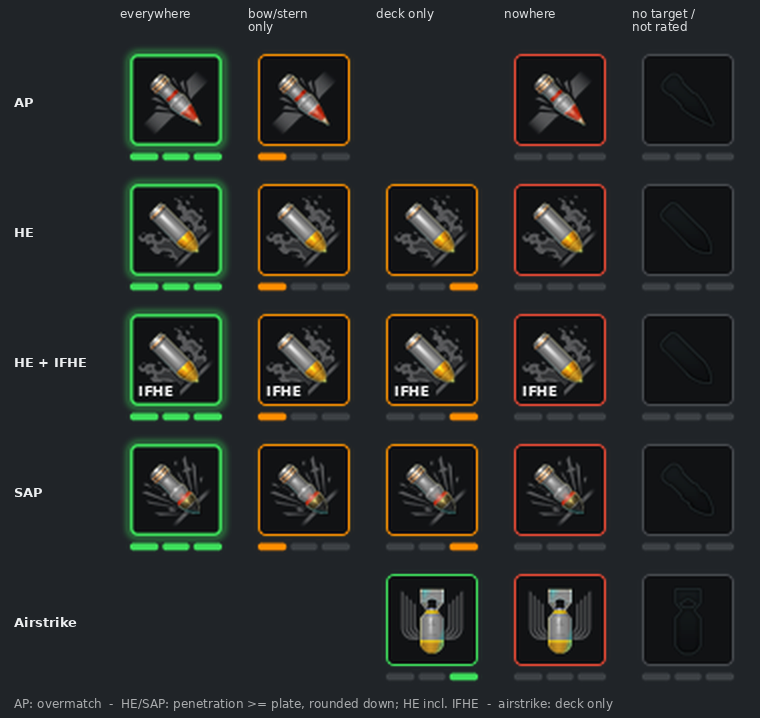
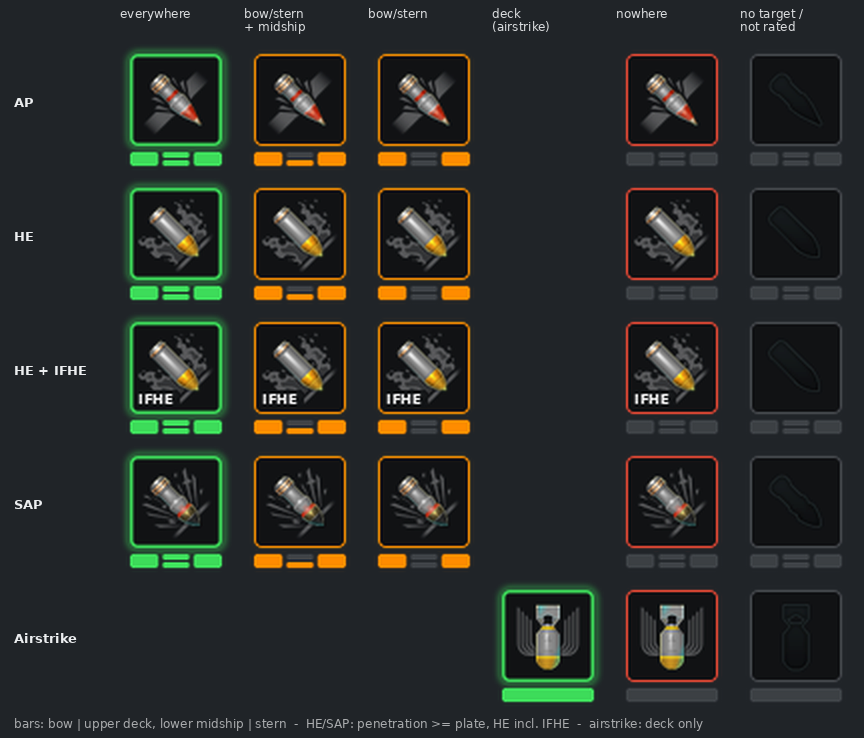
README, Bilder und CHANGELOG fuer 0.5.1
Claude-Session: https://claude.ai/code/session_01Cjegtnu2M8VwjBFAmFpPtC

diff --git a/tools/make_readme_images.py b/tools/make_readme_images.py
@@ -41,11 +41,11 @@ def _icon(name):
 
 # Munitionsleisten-Design (seit 0.5.0): Teile aus make_ammobar_icons, Symbole aus ammobar/game/ (Kopien aus
 # den Spieldateien, Wargaming). Masse wie PENLIGHT_SETTINGS (ammoBarSlot 46, ammoBarIcon 40, SegGap 3,
-# SegHeight 5, Gap 6, CapWidth 72, CapHeight 22, CapIcon 22, capsuleGap 4, TextIcon 17, glowPad 5,
+# SegHeight 7, Gap 6, CapWidth 72, CapHeight 22, CapIcon 22, capsuleGap 4, TextIcon 17, glowPad 5,
 # glowRestAlpha 0.45 = Ruhezustand nach dem Pulsieren).
 AMMOBAR = os.path.join(ICONS, 'ammobar')
 GAME = os.path.join(AMMOBAR, 'game')
-SLOT, SLOT_ICON, SEG_GAP, SEG_H, GAP = 46, 40, 3, 5, 6
+SLOT, SLOT_ICON, SEG_GAP, SEG_H, GAP = 46, 40, 3, 7, 6
 CAP_W, CAP_H, CAP_ICON, CAP_GAP, TEXT_ICON, GLOW_PAD, GLOW_REST = 72, 22, 22, 4, 17, 5, 0.45
 # Nur Text: Unterlage 0xD90E1012, Textfarben wie PENLIGHT_TEXT_CT bzw. _CB
 TEXT_PLATE = (14, 16, 18, 217)
@@ -86,12 +86,14 @@ def _state(kind, bits, rated=True, airstrike=False):
 
 def _frame_names(kind, bits, pal, rated, airstrike=False):
     st = _state(kind, bits, rated, airstrike)
-    ext = rated and bits == '111'
+    ext = rated and (bits[2] == '1' if airstrike else bits == '111')
+    air = 'air_' if airstrike else ''
     if not rated:
-        return 'slot_grey', 'seg_grey', 'cap_grey', 'stripe_grey', None, None, st
+        return 'slot_grey', 'seg_%sgrey' % air, 'cap_%sgrey' % air, 'stripe_grey', None, None, st
     glow = ('green' if kind == 'atk' else 'red') if ext else None
-    return ('slot_%s%s%s' % ('ext_' if ext else '', pal, st), 'seg_%s%s_%s' % (pal, st, bits),
-            'cap_%s%s_%s' % (pal, st, bits), 'stripe_%s%s' % (pal, st),
+    suffix = '' if airstrike else '_' + bits
+    return ('slot_%s%s%s' % ('ext_' if ext else '', pal, st), 'seg_%s%s%s%s' % (air, pal, st, suffix),
+            'cap_%s%s%s%s' % (air, pal, st, suffix), 'stripe_%s%s' % (pal, st),
             'glow_slot_%s%s' % (pal, glow) if glow else None, 'glow_cap_%s%s' % (pal, glow) if glow else None, st)
 
 
@@ -173,7 +175,7 @@ def ampel():
                          ab_slot('def', SHIELD, bits, pal, rated), gap=GAP - 2 * GLOW_PAD)
             im.alpha_composite(_zoom(pair), (x0 + i * cw, y))
     d.text((14, im.height - 22), 'left: my shell vs target  -  right (shield): target\'s AP vs me  -  '
-           'bars: bow/stern, midship, deck', font=fs, fill=(170, 172, 174))
+           'bars: bow | upper deck, lower midship | stern', font=fs, fill=(170, 172, 174))
     im.save(os.path.join(OUT, 'ampel.png'))
 
 
@@ -181,12 +183,12 @@ def ammo():
     """Zeilen je Munition, Spalten je Zustand; AP kennt kein 'nur Deck', der Luftschlag nur das Deck."""
     f = ImageFont.truetype(FONT, 13)
     fs = ImageFont.truetype(FONT_REGULAR, 12)
-    columns = [('everywhere', '111'), ('bow/stern\nonly', '100'), ('deck only', '001'), ('nowhere', '000'),
-               ('no target /\nnot rated', None)]
-    rows = [('AP', 'ap', ('111', '100', None, '000')), ('HE', 'he', ('111', '100', '001', '000')),
-            ('HE + IFHE', 'he', ('111', '100', '001', '000')), ('SAP', 'cs', ('111', '100', '001', '000')),
-            ('Airstrike', 'airsupport_he', (None, None, '001', '000'))]
-    cw, rh, x0 = 128, 130, 120
+    columns = [('everywhere', '111'), ('bow/stern\n+ midship', '110'), ('bow/stern', '100'),
+               ('deck\n(airstrike)', '001'), ('nowhere', '000'), ('no target /\nnot rated', None)]
+    common = ('111', '110', '100', '000')
+    rows = [('AP', 'ap', common), ('HE', 'he', common), ('HE + IFHE', 'he', common), ('SAP', 'cs', common),
+            ('Airstrike', 'airsupport_he', ('001', '000'))]
+    cw, rh, x0 = 124, 134, 120
     im = Image.new('RGBA', (x0 + len(columns) * cw, 44 + len(rows) * rh + 24), BACKGROUND)
     d = ImageDraw.Draw(im)
     for i, (label, _) in enumerate(columns):
@@ -196,14 +198,14 @@ def ammo():
         d.text((14, y + 50), name, font=f, fill=(236, 238, 240))
         for i, (_, bits) in enumerate(columns):
             if bits is None:
-                slot = ab_slot('atk', icon + '_inactive', '000', rated=False)
+                slot = ab_slot('atk', icon + '_inactive', '000', rated=False, airstrike=icon == 'airsupport_he')
             elif bits not in allowed:
                 continue
             else:
                 slot = ab_slot('atk', icon, bits, airstrike=icon == 'airsupport_he', ifhe=name.endswith('IFHE'))
             im.alpha_composite(_zoom(slot), (x0 + i * cw, y))
-    d.text((14, im.height - 22), 'AP: overmatch  -  HE/SAP: penetration >= plate, rounded down; HE incl. IFHE  -  '
-           'airstrike: deck only', font=fs, fill=(170, 172, 174))
+    d.text((14, im.height - 22), 'bars: bow | upper deck, lower midship | stern  -  HE/SAP: penetration >= plate, '
+           'HE incl. IFHE  -  airstrike: deck only', font=fs, fill=(170, 172, 174))
     im.save(os.path.join(OUT, 'ammo.png'))
 
 

diff --git a/README.de.md b/README.de.md
@@ -95,9 +95,12 @@ beim gleichen Ergebnis entgegengesetzte Farben:
 | keiner Zone | **Rot** – nur die Breitseite lohnt | **Grün** – Anwinkeln schützt dich |
 | keine Bewertung | Grau, Symbole abgedunkelt | Grau, Symbole abgedunkelt |
 
-Die **drei Balken** unter jedem Slot tragen dieselbe Aussage ohne Farbe, damit alles auch bei
-Farbsehschwäche lesbar bleibt: von links nach rechts **Bug/Heck, Mitte, Deck**; ein leuchtender
-Balken heißt „kommt hier durch“. Das Leuchten pulsiert beim Aufschalten kurz.
+Die **Balken** unter jedem Slot tragen dieselbe Aussage ohne Farbe, damit alles auch bei
+Farbsehschwäche lesbar bleibt. Sie sind angeordnet wie ein Schiff von der Seite: links **Bug**,
+rechts **Heck** (beide stehen für Bug/Heck), in der Mitte eine geteilte Sektion – **obere Hälfte
+Deck, untere Hälfte Mitte**. Eine leuchtende Sektion heißt „kommt hier durch“. Modern nutzt Punkte
+in derselben Reihenfolge, der mittlere Punkt ist genauso geteilt. Das Leuchten pulsiert beim
+Aufschalten kurz.
 
 Für Rot-Grün-Schwäche gibt es ein Farbschema in Blau/Gelb/Orange (Okabe-Ito-Palette).
 
@@ -129,8 +132,10 @@ Einige Schiffe (vor allem niederländische Kreuzer) haben einen **Luftschlag mit
 Wählst du ihn, wechselt der linke Slot auf das Luftschlag-Symbol und bewertet den Durchschlag der
 Bombe nur gegen das **Deck** des Ziels – Bomben treffen von oben:
 
-- **Grün**, Deck-Balken leuchtet: Die Bomben durchschlagen das Deck.
-- **Rot**: Sie tun es nicht.
+- **Grün** mit Leuchten, die einzelne Deck-Sektion leuchtet: Die Bomben durchschlagen das Deck.
+- **Rot**, Sektion leer: Sie tun es nicht.
+
+Statt drei Sektionen zeigen Balken (Klassisch) bzw. Kapsel (Modern) nur diese eine.
 
 Der Durchschlag ist der Wert der Bombe, wie ihn das Spiel meldet (IFHE wirkt hier nicht). Die
 Anzeige bleibt sichtbar, solange der Luftschlag gewählt ist, auch außerhalb der Zielansicht.
@@ -167,7 +172,7 @@ In TTaro Mod Config → PenLight → **Darstellung** wählst du, wie das Ergebni
 | Darstellung | Normale Ansicht | Mit Alt |
 |---|---|---|
 | **Klassisch** | zwei Munitions-Slots mit Balken wie oben | Schiffe je Zone wie oben |
-| **Modern** (Standard) | zwei Kapseln mit Munitions-Symbol bzw. Schild: oben mein Schuss → Ziel, unten AP des Ziels → ich; drei Punkte für Bug/Heck, Mitte und Deck | ausgeklappte Kapseln mit Plattendicke je Zone und dem Schuss (Durchschlag bzw. Kaliber und Overmatch-Grenze) |
+| **Modern** (Standard) | zwei Kapseln mit Munitions-Symbol bzw. Schild: oben mein Schuss → Ziel, unten AP des Ziels → ich; Punkte für Bug, Deck/Mitte (geteilt) und Heck | ausgeklappte Kapseln mit Plattendicke je Zone und dem Schuss (Durchschlag bzw. Kaliber und Overmatch-Grenze) |
 | **Nur Text** | zwei Zeilen auf dunkler Unterlage mit Farbstreifen und kleinem Symbol, z. B. „HE: Bug/Heck“ und „Gegner-AP: überall“, in den Ampelfarben | Kopfzeile, Zonenname und Plattendicke als Text |
 
 <p align="center">

diff --git a/README.md b/README.md
@@ -95,9 +95,11 @@ use opposite colours for the same result:
 | no zone | **Red** – only a broadside is worth it | **Green** – angling protects you |
 | no rating | Grey, icons dimmed | Grey, icons dimmed |
 
-The **three bars** under each slot carry the same message without colour, so it stays readable
-with colour vision deficiency: from left to right **bow/stern, midship, deck**; a lit bar means
-"gets through here". The glow pulses briefly when you lock a target.
+The **bars** under each slot carry the same message without colour, so it stays readable with
+colour vision deficiency. They are arranged like a ship seen from the side: **bow** on the left,
+**stern** on the right (both stand for bow/stern), and in the middle a split section – **upper
+half deck, lower half midship**. A lit section means "gets through here". Modern uses dots in the
+same order, with the middle dot split the same way. The glow pulses briefly when you lock a target.
 
 A colour-blind scheme in blue/yellow/orange (Okabe-Ito palette) is available for red-green
 colour vision deficiency.
@@ -130,8 +132,10 @@ Some ships (mostly Dutch cruisers) carry an **airstrike with HE bombs**. When yo
 left slot switches to the airstrike icon and rates the bomb's penetration against the target's
 **deck** only – bombs hit from above:
 
-- **Green**, deck bar lit: the bombs penetrate the deck.
-- **Red**: they do not.
+- **Green** with glow, the single deck section lit: the bombs penetrate the deck.
+- **Red**, section empty: they do not.
+
+Instead of three sections, the bar (Classic) or the capsule (Modern) shows just this one.
 
 The penetration value is the bomb's own value as reported by the game (IFHE does not apply).
 The display stays visible while the airstrike is selected, also outside the aiming view. When
@@ -169,7 +173,7 @@ In TTaro Mod Config → PenLight → **Display style** you choose how the result
 | Style | Normal view | With Alt |
 |---|---|---|
 | **Classic** | two ammo slots with bars, as shown above | ships per zone as shown above |
-| **Modern** (default) | two capsules with the ammo icon or shield: top = my shot → target, bottom = target's AP → me; three dots for bow/stern, midship and deck | expanded capsules with the plate thickness per zone and the shot (penetration, or calibre and overmatch limit) |
+| **Modern** (default) | two capsules with the ammo icon or shield: top = my shot → target, bottom = target's AP → me; dots for bow, deck/midship (split) and stern | expanded capsules with the plate thickness per zone and the shot (penetration, or calibre and overmatch limit) |
 | **Text only** | two lines on a dark backing with a colour stripe and a small icon, e.g. "HE: Bow/Stern" and "Enemy AP: everywhere", in the traffic-light colours | headline, zone name and plate thickness as text |
 
 <p align="center">

diff --git a/docs/CHANGELOG.md b/docs/CHANGELOG.md
@@ -5,6 +5,9 @@ workflow uses them as "What's new" and then moves them under the new version.
 
 ## Unreleased
 
+- Bars (Classic) and dots (Modern) are now arranged like a ship seen from the side: bow on the left, stern on the right, and a split middle section – upper half deck, lower half midship. Before, "bow/stern + deck" and "bow/stern + midship" were hard to tell apart.
+- Airstrike: shows a single deck section instead of three, green with glow when the bombs penetrate the deck.
+
 ## 0.5.0 – 2026-11-01
 
 - New look for all display styles, modelled on the game's ammo bar: the icon of your loaded ammunition (AP / HE / SAP) and a shield, framed in the traffic-light colour, with three bars or dots for bow/stern, midship and deck. Extreme cases glow. The ammo, airstrike and shield icons are taken from the game files.
